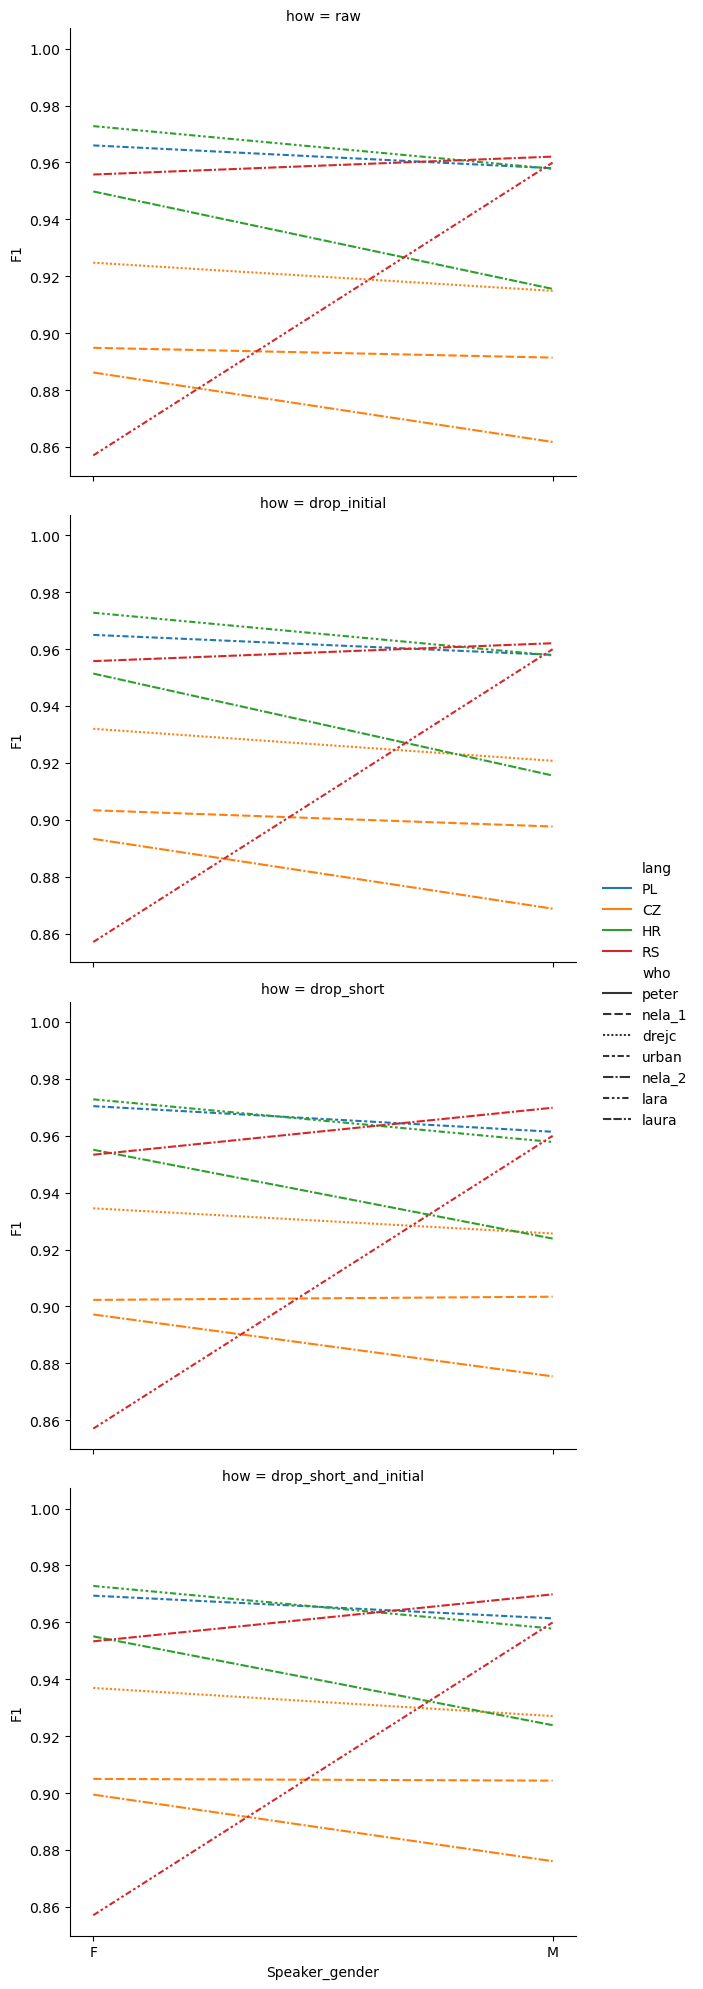
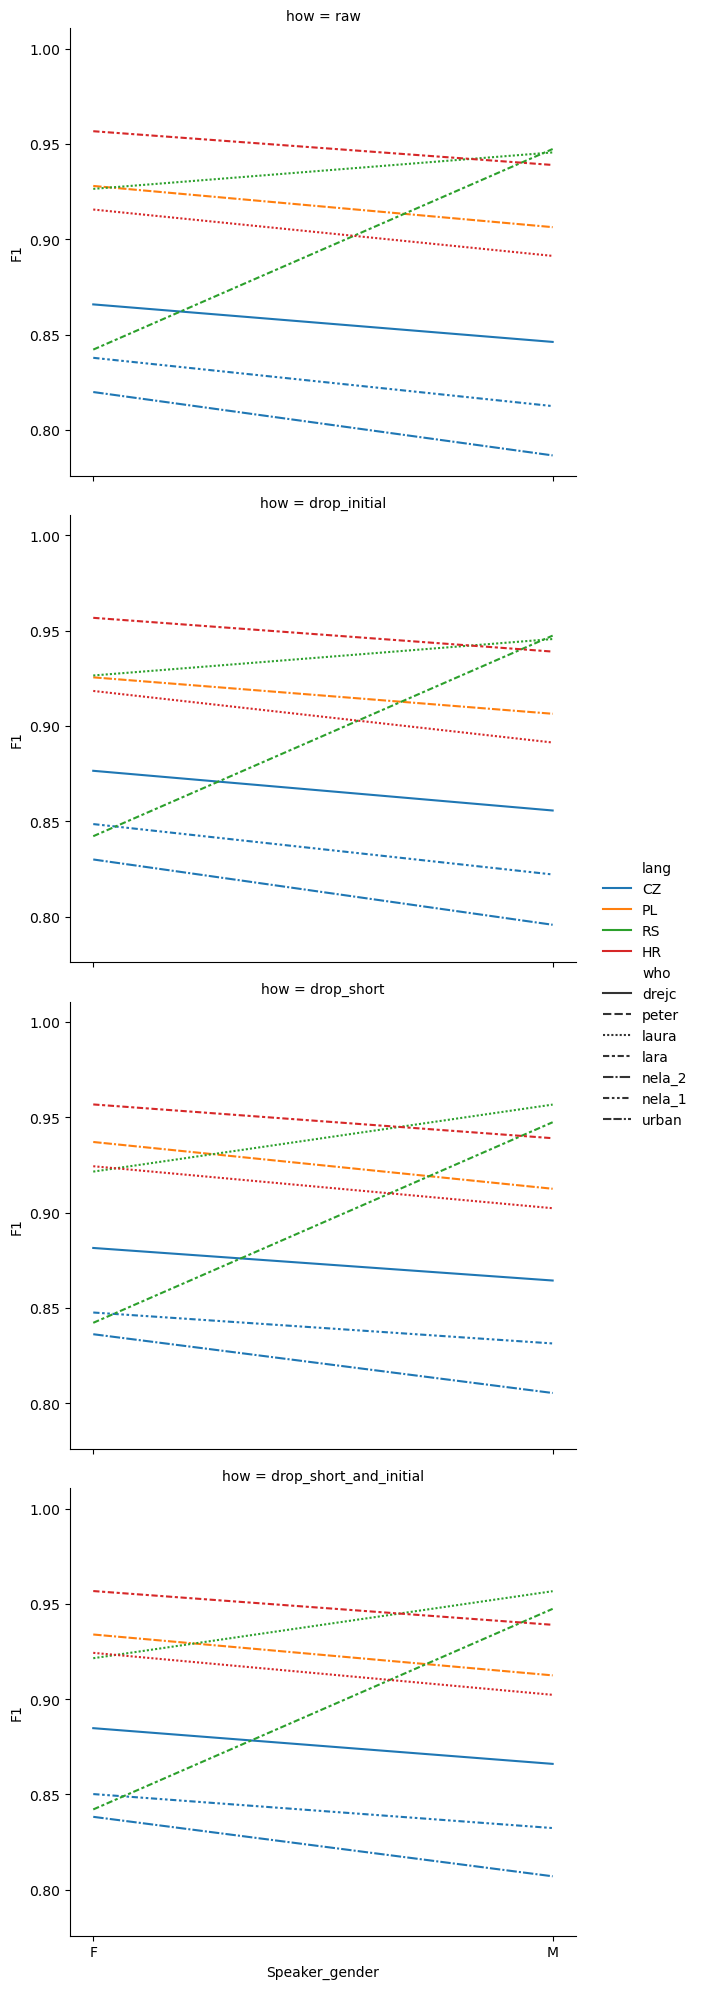
Rerun on full data, with stricter metrics

diff --git a/annotation_eval/scripts/make_samples.py b/annotation_eval/scripts/make_samples.py
@@ -1,0 +1,131 @@
+import polars as pl
+from pathlib import Path
+from shutil import copy
+from lxml import etree
+import datetime
+
+try:
+    inpath = snakemake.input[0]
+    output = snakemake.output[0]
+except NameError:
+    inpath = "samples.jsonl"
+    output = "brisi"
+
+df = pl.read_ndjson(inpath)
+for row in df.iter_rows(named=True):
+    wav = Path("TG", row["lang"], row["file"], f"""{row["file"]}.wav""")
+    destination_wav = Path(
+        "EAF_samples", row["lang"], row["file"], row["file"]
+    ).with_suffix(".wav")
+    destination_wav.parent.mkdir(exist_ok=True, parents=True)
+    copy(wav, destination_wav)
+    eaf_path = destination_wav.with_suffix(".eaf")
+    nsmap = {"xsi": "http://www.w3.org/2001/XMLSchema-instance"}
+    root = etree.Element(
+        "ANNOTATION_DOCUMENT",
+        {
+            "AUTHOR": "Peter Rupnik, JSI",
+            "DATE": datetime.datetime.now().isoformat(),
+            "FORMAT": "3.0",
+            "VERSION": "3.0",
+            "{http://www.w3.org/2001/XMLSchema-instance}noNamespaceSchemaLocation": "http://www.mpi.nl/tools/elan/EAFv3.0.xsd",
+        },
+        nsmap=nsmap,
+    )
+    counter = 0
+    # Add header elements
+    header = etree.SubElement(
+        root,
+        "HEADER",
+        {
+            "MEDIA_FILE": eaf_path.with_suffix(".wav").name.encode("utf8"),
+            "TIME_UNITS": "milliseconds",
+        },
+    )
+
+    # Add time order (empty for now)
+    time_order = etree.SubElement(root, "TIME_ORDER")
+
+    # Add the tier for "machine"
+    machine_tier = etree.SubElement(
+        root,
+        "TIER",
+        {"LINGUISTIC_TYPE_REF": "default-lt", "TIER_ID": "machine"},
+    )
+    # Add the tier for "human"
+    human_tier = etree.SubElement(
+        root,
+        "TIER",
+        {"LINGUISTIC_TYPE_REF": "default-lt", "TIER_ID": "human"},
+    )
+
+    for y in row["y_true"]:
+        start, stop = str(int(1000 * y[0])), str(int(1000 * y[1]))
+        ts1, ts2 = f"ts{counter}", f"ts{counter + 1}"
+        counter += 2
+        annotation_value = etree.Element("ANNOTATION_VALUE")
+        annotation_value.text = "eee"
+        alignable_annotation = etree.Element("ALIGNABLE_ANNOTATION")
+        alignable_annotation.attrib["ANNOTATION_ID"] = f"a{counter}"
+        alignable_annotation.attrib["TIME_SLOT_REF1"] = ts1
+        alignable_annotation.attrib["TIME_SLOT_REF2"] = ts2
+        alignable_annotation.append(annotation_value)
+
+        annotation = etree.Element("ANNOTATION")
+        annotation.append(alignable_annotation)
+        human_tier.append(annotation)
+
+        time_slot = etree.Element("TIME_SLOT")
+        time_slot.attrib["TIME_SLOT_ID"] = ts1
+        time_slot.attrib["TIME_VALUE"] = start
+        time_order.append(time_slot)
+
+        time_slot = etree.Element("TIME_SLOT")
+        time_slot.attrib["TIME_SLOT_ID"] = ts2
+        time_slot.attrib["TIME_VALUE"] = stop
+        time_order.append(time_slot)
+    for y in row["y_pred"]:
+        start, stop = str(int(1000 * y[0])), str(int(1000 * y[1]))
+        ts1, ts2 = f"ts{counter}", f"ts{counter + 1}"
+        counter += 2
+        annotation_value = etree.Element("ANNOTATION_VALUE")
+        annotation_value.text = "eee"
+        alignable_annotation = etree.Element("ALIGNABLE_ANNOTATION")
+        alignable_annotation.attrib["ANNOTATION_ID"] = f"a{counter}"
+        alignable_annotation.attrib["TIME_SLOT_REF1"] = ts1
+        alignable_annotation.attrib["TIME_SLOT_REF2"] = ts2
+        alignable_annotation.append(annotation_value)
+
+        annotation = etree.Element("ANNOTATION")
+        annotation.append(alignable_annotation)
+        machine_tier.append(annotation)
+
+        time_slot = etree.Element("TIME_SLOT")
+        time_slot.attrib["TIME_SLOT_ID"] = ts1
+        time_slot.attrib["TIME_VALUE"] = start
+        time_order.append(time_slot)
+
+        time_slot = etree.Element("TIME_SLOT")
+        time_slot.attrib["TIME_SLOT_ID"] = ts2
+        time_slot.attrib["TIME_VALUE"] = stop
+        time_order.append(time_slot)
+
+    # Add linguistic type
+    linguistic_type = etree.SubElement(
+        root,
+        "LINGUISTIC_TYPE",
+        {
+            "GRAPHIC_REFERENCES": "false",
+            "LINGUISTIC_TYPE_ID": "default-lt",
+            "TIME_ALIGNABLE": "true",
+        },
+    )
+
+    # Create the XML tree
+    tree = etree.ElementTree(root)
+    etree.indent(tree)
+    2 + 2
+    # Write the XML to a file
+    with open(str(eaf_path), "wb") as file:
+        tree.write(file, encoding="utf-8", xml_declaration=True, pretty_print=True)
+Path(output).write_text("\n")

diff --git a/annotation_eval/scripts/report.py b/annotation_eval/scripts/report.py
@@ -2,10 +2,12 @@ try:
     infile = snakemake.input[0]
     metrics_plot = snakemake.output.metricsplot
     gender_plot = snakemake.output.genderplot
+    samples = snakemake.output.samples
 except NameError:
     infile = "master.jsonl"
     metrics_plot = "images/metrics.png"
     gender_plot = "images/gender.png"
+    samples = "brisi.jsonl"
 
 import polars as pl
 from pathlib import Path
@@ -27,9 +29,9 @@ def intervals_to_events(y_trues, y_preds):
     from sklearn.metrics import accuracy_score, precision_score, recall_score, f1_score
 
     y_pred_events, y_true_events = [], []
-    FPs = []
-    FNs = []
-    TPs = []
+    FPs = 0
+    FNs = 0
+    TPs = 0
     try:
         y_preds, y_trues = y_preds.to_list(), y_trues.to_list()
     except:
@@ -53,16 +55,20 @@ def intervals_to_events(y_trues, y_preds):
                 is_overlapping(event, x) for x in y_true if x not in inhibited_events
             ]
             if any(overlapping):
-                y_pred_events.extend([1 for i in overlapping])
-                y_true_events.extend([1 for i in overlapping])
+                y_pred_events.extend([1 for i in overlapping[:1]])
+                y_true_events.extend([1 for i in overlapping[:1]])
                 inhibited_events.extend([x for x in y_true if is_overlapping(event, x)])
+                TPs += 1
             else:
                 y_pred_events.append(1)
                 y_true_events.append(0)
+                FPs += 1
+
         for event in y_true:
             if event not in inhibited_events:
                 y_pred_events.append(0)
                 y_true_events.append(1)
+                FNs += 1
     return {
         "y_true": y_true_events,
         "y_pred": y_pred_events,
@@ -74,6 +80,9 @@ def intervals_to_events(y_trues, y_preds):
         ),
         "accuracy": round(accuracy_score(y_true_events, y_pred_events), 3),
         "f1": round(f1_score(y_true_events, y_pred_events, zero_division=1.0), 3),
+        "FP": FPs,
+        "FN": FNs,
+        "TP": TPs,
     }
 
 
@@ -447,3 +456,33 @@ Path(snakemake.output.report).write_text(
         )
     )
 )
+
+
+candidates = (
+    df.filter(pl.col("who").is_in(["laura", "drejc", "urban"]))
+    .rename({"y_pred_drop_short_and_initial": "y_pred"})
+    .select("lang file y_true y_pred".split())
+    .with_columns(
+        pl.struct(["y_true", "y_pred"])
+        .map_elements(
+            lambda row: intervals_to_events([row["y_true"]], [row["y_pred"]])["FP"],
+            return_dtype=pl.UInt64,
+        )
+        .alias("FP"),
+        pl.struct(["y_true", "y_pred"])
+        .map_elements(
+            lambda row: intervals_to_events([row["y_true"]], [row["y_pred"]])["FN"],
+            return_dtype=pl.UInt64,
+        )
+        .alias("FN"),
+    )
+    .filter(pl.col("FN").ne(0) | pl.col("FP").ne(0))
+    .sort(["lang", "file"])
+)
+selection = (
+    candidates.group_by("lang").agg(pl.col("file").sample(20)).explode("file")["file"]
+)
+
+final = candidates.filter(pl.col("file").is_in(selection))
+
+final.write_ndjson(samples)

diff --git a/annotation_eval/scripts/prep_single_textgrids.py b/annotation_eval/scripts/prep_single_textgrids.py
@@ -17,8 +17,10 @@ from tqdm import tqdm
 
 
 def find_audio(f: str):
-    candidates = list(Path("../data/").glob(f"**/{f}.flac")) + list(
-        Path("../data/").glob(f"**/{f}.mp3")
+    candidates = (
+        list(Path("../data/").glob(f"**/{f}.flac"))
+        + list(Path("../data/").glob(f"**/{f}.mp3"))
+        + list(Path("../data/").glob(f"**/{f}.wav"))
     )
     if len(candidates) == 1:
         return str(candidates[0])

diff --git a/annotation_eval/report.md b/annotation_eval/report.md
@@ -1,7 +1,7 @@
 
 # Automated evaluation report
 
-Report compiled: 2025-03-12T14:17:38.415453+01:00
+Report compiled: 2025-03-12T17:57:11.448219+01:00
 
 ## Composition of available files:
 
@@ -9,14 +9,14 @@ Simple count of available files per language and per annotator:
 
 | lang   | who    |   file count |
 |:-------|:-------|-------------:|
+| RS     | laura  |          400 |
 | CZ     | nela_1 |          400 |
+| CZ     | nela_2 |          400 |
 | CZ     | drejc  |          400 |
 | HR     | laura  |          400 |
-| CZ     | nela_2 |          400 |
-| RS     | laura  |          400 |
 | PL     | urban  |          400 |
-| HR     | lara   |           40 |
 | RS     | lara   |           40 |
+| HR     | lara   |           40 |
 | PL     | peter  |            2 |
 
 ## Inter-annotator agreement
@@ -28,11 +28,11 @@ In case of three or more annotators, display pair-wise comparisons.
 | lang   | who_1   | who_2   |   observed_agreement |   krippendorff_alpha |   common_files | precision       | recall          |
 |:-------|:--------|:--------|---------------------:|---------------------:|---------------:|:----------------|:----------------|
 | PL     | urban   | peter   |                1     |             1        |              2 | 1.0 <-> 1.0     | 1.0 <-> 1.0     |
-| CZ     | nela_1  | nela_2  |                0.932 |             0.852693 |            400 | 0.967 <-> 0.92  | 0.928 <-> 0.969 |
-| HR     | lara    | laura   |                0.931 |             0.812582 |             40 | 1.0 <-> 0.909   | 0.912 <-> 1.0   |
-| RS     | lara    | laura   |                0.915 |             0.82967  |             40 | 0.95 <-> 0.864  | 0.864 <-> 0.95  |
-| CZ     | nela_1  | drejc   |                0.893 |             0.761831 |            400 | 0.876 <-> 0.963 | 0.964 <-> 0.892 |
-| CZ     | drejc   | nela_2  |                0.891 |             0.753233 |            400 | 0.975 <-> 0.839 | 0.87 <-> 0.974  |
+| RS     | laura   | lara    |                0.909 |             0.814103 |             40 | 0.842 <-> 0.941 | 0.941 <-> 0.842 |
+| CZ     | nela_1  | nela_2  |                0.907 |             0.813811 |            400 | 0.942 <-> 0.871 | 0.877 <-> 0.949 |
+| HR     | laura   | lara    |                0.907 |             0.790607 |             40 | 0.872 <-> 1.0   | 1.0 <-> 0.872   |
+| CZ     | nela_1  | drejc   |                0.854 |             0.707559 |            400 | 0.8 <-> 0.928   | 0.939 <-> 0.806 |
+| CZ     | drejc   | nela_2  |                0.841 |             0.682    |            400 | 0.95 <-> 0.754  | 0.766 <-> 0.957 |
 
 ## Gender-based analysis:
 The tables show results on `drop_short_and_initial`. For other post-processing methods, check out the plot below.
@@ -41,21 +41,21 @@ Overall:
 
 | Speaker_gender   |   F1_score |
 |:-----------------|-----------:|
-| M                |      0.929 |
-| F                |      0.938 |
+| F                |      0.89  |
+| M                |      0.877 |
 
 Per country:
 
 | lang   | Speaker_gender   |   F1_score |
 |:-------|:-----------------|-----------:|
-| CZ     | F                |      0.91  |
-| CZ     | M                |      0.9   |
-| HR     | F                |      0.957 |
-| HR     | M                |      0.93  |
-| PL     | F                |      0.97  |
-| PL     | M                |      0.961 |
-| RS     | F                |      0.949 |
-| RS     | M                |      0.969 |
+| CZ     | F                |      0.851 |
+| CZ     | M                |      0.829 |
+| HR     | F                |      0.927 |
+| HR     | M                |      0.908 |
+| PL     | F                |      0.935 |
+| PL     | M                |      0.913 |
+| RS     | F                |      0.917 |
+| RS     | M                |      0.956 |
 
 ### A graphical representation of gender disparities for individual languages, annotators, and  postprocessing steps:
 
@@ -64,42 +64,42 @@ Per country:
 
 | lang   | who    | how                    |   recall |   precision |       F1 |   num_files |
 |:-------|:-------|:-----------------------|---------:|------------:|---------:|------------:|
-| CZ     | drejc  | drop_short_and_initial |    0.939 |       0.925 | 0.931947 |         400 |
-| CZ     | drejc  | drop_short             |    0.948 |       0.913 | 0.930171 |         400 |
-| CZ     | drejc  | drop_initial           |    0.939 |       0.914 | 0.926331 |         400 |
-| CZ     | drejc  | raw                    |    0.948 |       0.894 | 0.920208 |         400 |
-| CZ     | nela_1 | drop_short_and_initial |    0.953 |       0.86  | 0.904115 |         400 |
-| CZ     | nela_1 | drop_short             |    0.964 |       0.849 | 0.902853 |         400 |
-| CZ     | nela_1 | drop_initial           |    0.956 |       0.851 | 0.900449 |         400 |
-| CZ     | nela_1 | raw                    |    0.966 |       0.831 | 0.893429 |         400 |
-| CZ     | nela_2 | drop_short_and_initial |    0.96  |       0.826 | 0.887973 |         400 |
-| CZ     | nela_2 | drop_short             |    0.972 |       0.815 | 0.886603 |         400 |
-| CZ     | nela_2 | drop_initial           |    0.96  |       0.814 | 0.880992 |         400 |
-| CZ     | nela_2 | raw                    |    0.972 |       0.795 | 0.874635 |         400 |
-| HR     | lara   | drop_initial           |    0.929 |       1     | 0.963193 |          40 |
-| HR     | lara   | drop_short             |    0.929 |       1     | 0.963193 |          40 |
-| HR     | lara   | drop_short_and_initial |    0.929 |       1     | 0.963193 |          40 |
-| HR     | lara   | raw                    |    0.929 |       1     | 0.963193 |          40 |
-| HR     | laura  | drop_short             |    0.961 |       0.927 | 0.943694 |         400 |
-| HR     | laura  | drop_short_and_initial |    0.961 |       0.927 | 0.943694 |         400 |
-| HR     | laura  | drop_initial           |    0.961 |       0.916 | 0.937961 |         400 |
-| HR     | laura  | raw                    |    0.961 |       0.914 | 0.936911 |         400 |
+| CZ     | drejc  | drop_short_and_initial |    0.889 |       0.865 | 0.876836 |         400 |
+| CZ     | drejc  | drop_short             |    0.905 |       0.846 | 0.874506 |         400 |
+| CZ     | drejc  | drop_initial           |    0.889 |       0.846 | 0.866967 |         400 |
+| CZ     | drejc  | raw                    |    0.905 |       0.814 | 0.857091 |         400 |
+| CZ     | nela_1 | drop_short_and_initial |    0.92  |       0.775 | 0.841298 |         400 |
+| CZ     | nela_1 | drop_short             |    0.938 |       0.76  | 0.83967  |         400 |
+| CZ     | nela_1 | drop_initial           |    0.923 |       0.762 | 0.834808 |         400 |
+| CZ     | nela_1 | raw                    |    0.941 |       0.734 | 0.824709 |         400 |
+| CZ     | nela_2 | drop_short_and_initial |    0.934 |       0.735 | 0.822636 |         400 |
+| CZ     | nela_2 | drop_short             |    0.953 |       0.721 | 0.820924 |         400 |
+| CZ     | nela_2 | drop_initial           |    0.934 |       0.72  | 0.813156 |         400 |
+| CZ     | nela_2 | raw                    |    0.953 |       0.694 | 0.803135 |         400 |
+| HR     | lara   | drop_initial           |    0.895 |       1     | 0.944591 |          40 |
+| HR     | lara   | drop_short             |    0.895 |       1     | 0.944591 |          40 |
+| HR     | lara   | drop_short_and_initial |    0.895 |       1     | 0.944591 |          40 |
+| HR     | lara   | raw                    |    0.895 |       1     | 0.944591 |          40 |
+| HR     | laura  | drop_short             |    0.94  |       0.89  | 0.914317 |         400 |
+| HR     | laura  | drop_short_and_initial |    0.94  |       0.89  | 0.914317 |         400 |
+| HR     | laura  | drop_initial           |    0.94  |       0.875 | 0.906336 |         400 |
+| HR     | laura  | raw                    |    0.94  |       0.872 | 0.904724 |         400 |
 | PL     | peter  | drop_initial           |    1     |       1     | 1        |           2 |
 | PL     | peter  | drop_short             |    1     |       1     | 1        |           2 |
 | PL     | peter  | drop_short_and_initial |    1     |       1     | 1        |           2 |
 | PL     | peter  | raw                    |    1     |       1     | 1        |           2 |
-| PL     | urban  | drop_short             |    0.955 |       0.976 | 0.965386 |         400 |
-| PL     | urban  | drop_short_and_initial |    0.954 |       0.976 | 0.964875 |         400 |
-| PL     | urban  | raw                    |    0.959 |       0.965 | 0.961991 |         400 |
-| PL     | urban  | drop_initial           |    0.958 |       0.965 | 0.961487 |         400 |
-| RS     | lara   | drop_initial           |    0.913 |       0.913 | 0.913    |          40 |
-| RS     | lara   | drop_short             |    0.913 |       0.913 | 0.913    |          40 |
-| RS     | lara   | drop_short_and_initial |    0.913 |       0.913 | 0.913    |          40 |
-| RS     | lara   | raw                    |    0.913 |       0.913 | 0.913    |          40 |
-| RS     | laura  | drop_short             |    0.974 |       0.947 | 0.96031  |         400 |
-| RS     | laura  | drop_short_and_initial |    0.974 |       0.947 | 0.96031  |         400 |
-| RS     | laura  | drop_initial           |    0.983 |       0.935 | 0.958399 |         400 |
-| RS     | laura  | raw                    |    0.983 |       0.935 | 0.958399 |         400 |
+| PL     | urban  | drop_short             |    0.903 |       0.947 | 0.924477 |         400 |
+| PL     | urban  | drop_short_and_initial |    0.901 |       0.947 | 0.923427 |         400 |
+| PL     | urban  | raw                    |    0.91  |       0.924 | 0.916947 |         400 |
+| PL     | urban  | drop_initial           |    0.908 |       0.924 | 0.91593  |         400 |
+| RS     | lara   | drop_initial           |    0.895 |       0.895 | 0.895    |          40 |
+| RS     | lara   | drop_short             |    0.895 |       0.895 | 0.895    |          40 |
+| RS     | lara   | drop_short_and_initial |    0.895 |       0.895 | 0.895    |          40 |
+| RS     | lara   | raw                    |    0.895 |       0.895 | 0.895    |          40 |
+| RS     | laura  | drop_short             |    0.959 |       0.918 | 0.938052 |         400 |
+| RS     | laura  | drop_short_and_initial |    0.959 |       0.918 | 0.938052 |         400 |
+| RS     | laura  | drop_initial           |    0.974 |       0.9   | 0.935539 |         400 |
+| RS     | laura  | raw                    |    0.974 |       0.9   | 0.935539 |         400 |
 
 ### How do post-processing approaches affect the performance?
 
